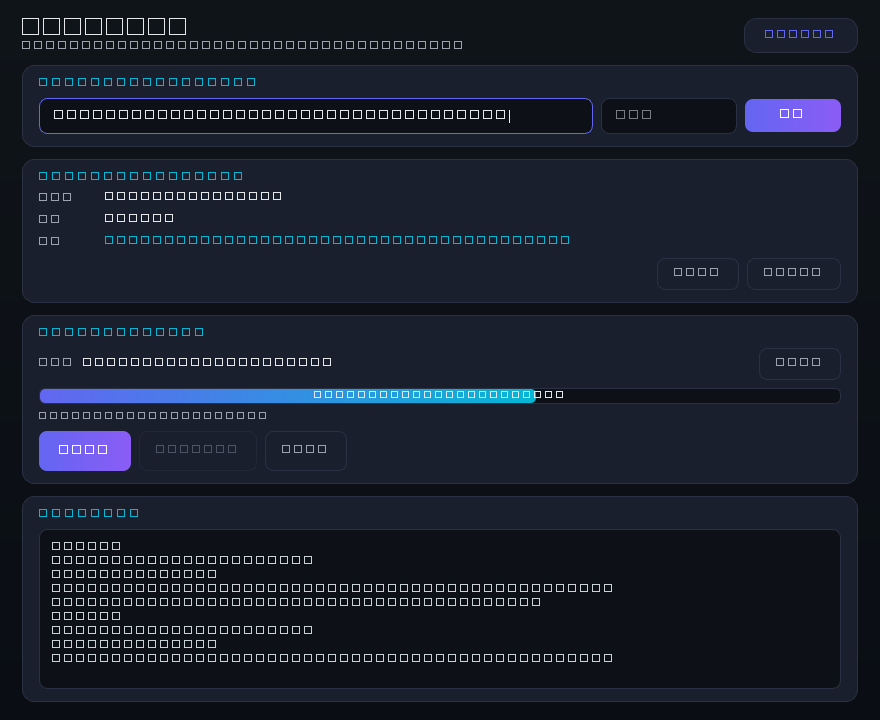
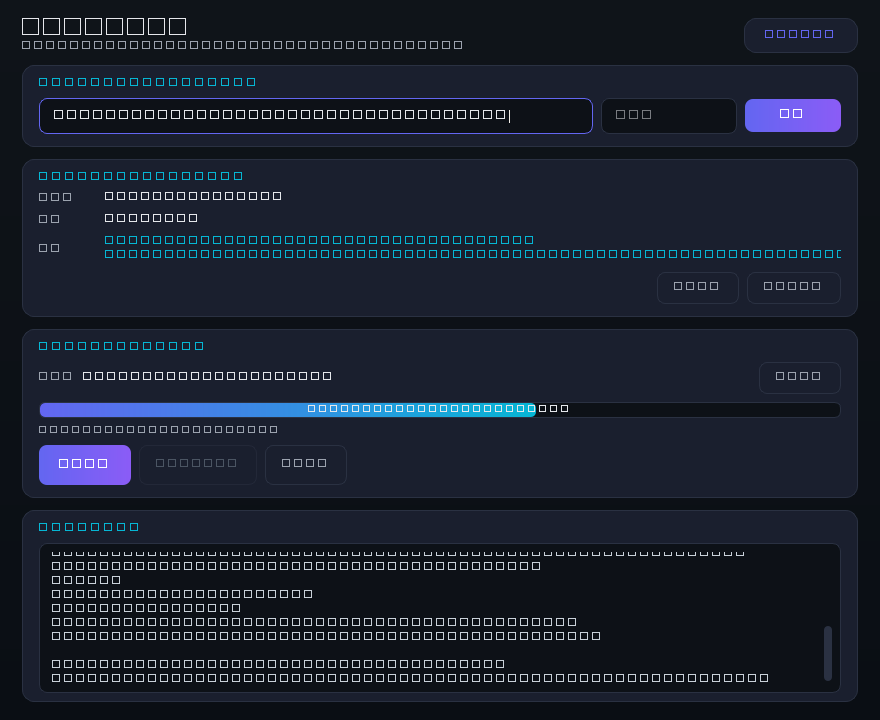
ui: 日志窗口不再被超长直链刷屏，截图改为反映新流程
- 新增 lanzou_gui.shorten()：蓝奏云直链有 300~700 个字符（鉴权串全在里面），
  原来整条打进日志窗口会把别的信息冲掉；现在日志里截断并提示去「直链」栏取完整地址，
  直链栏本身仍保留完整链接（可复制 / 可浏览器打开）
- _make_screenshot.py 改用假数据 + 新流程的日志（浏览器引擎 28 种方法、过 CDN 反爬），
  不再把真实分享链接/文件名截进仓库
- gui_functional.py 加 4 项检查锁住这个行为（46 到 50 项）

diff --git a/tests/_make_screenshot.py b/tests/_make_screenshot.py
@@ -21,32 +21,51 @@ win.resize(880, 720)
 win.show()
 app.processEvents()
 
-# 填一些看起来真实的内容
-win.url_edit.setText('https://wwx.lanzoux.com/ib8xY2zKqwd')
-win.lb_name.setText('示例文件-中文名也可以.zip')
-win.lb_size.setText('48.7 M')
+# 填一些看起来真实的内容（故意用假数据，别把真实分享链接/文件名截进仓库）
+SHARE = 'https://wwx.lanzoux.com/ib8xY2zKqwd'
+DIRECT = ('https://developer4.lanrar.com/file/?UzUFOwo7AzIDCgM7VmNUOFFuVGxR5gay'
[1 lines of base64/hex data omitted]
+NAME = '示例文件-中文名也可以.zip'
+SIZE = '28.73 MB'
+
+win.url_edit.setText(SHARE)
+win.lb_name.setText(NAME)
+win.lb_size.setText(SIZE)
 
 win._on_parsed(LanzouFile(
-    direct_url='https://vip.lanzou.com/file/i9abcDEF123',
-    middle_url='https://vip.lanzou.com/file/i9abcDEF123',
-    name='示例文件-中文名也可以.zip',
-    size='48.7 M',
-    share_url='https://wwx.lanzoux.com/ib8xY2zKqwd',
+    direct_url=DIRECT,
+    middle_url=DIRECT,
+    name=NAME,
+    size=SIZE,
+    share_url=SHARE,
+    engine='browser',
+    cookies={'acw_sc__v2': 'x', 'acw_tc': 'y', 'cdn_sec_tc': 'z', 'down_ip': '1'},
 ))
 
-# 手动补几行日志（不真的发请求）
+# 手动补几行日志（不真的发请求）—— 展示「浏览器引擎 + 过 CDN 反爬」这条新流程
 for line in [
-    '→ 解析: https://wwx.lanzoux.com/ib8xY2zKqwd',
+    '→ 解析: %s' % SHARE,
+    '  [+] 引擎启动中 · 第 1 次尝试...',
+    '  [+] 防检测模式已开启 · 稳定连接中...',
+    '  [+] 成功获取真实地址 · 正在请求服务器签名...',
+    '  【3/28】浏览器静默提取 ...',
+    '  ✔ 浏览器引擎拿到直链',
+    '      ⚠ 直链节点要求过 CDN 反爬，改用浏览器…',
+    '      ✔ 已过 CDN 反爬（acw_sc__v2, acw_tc, cdn_sec_tc, down_ip）',
+    '      ✔ 直链可用 · %s · %s' % (NAME, SIZE),
     '✔ 解析成功',
-    '  文件名: 示例文件-中文名也可以.zip',
-    '  大小  : 48.7 M',
-    '  直链  : https://vip.lanzou.com/file/i9abcDEF123',
+    '  文件名: %s' % NAME,
+    '  大小  : %s' % SIZE,
+    '  直链  : %s' % G.shorten(DIRECT),
+    '',
+    '→ 开始下载到: C:\\Users\\%USERNAME%\\Downloads',
+    '  已带上 CDN 反爬 cookie（acw_sc__v2, acw_tc, cdn_sec_tc, down_ip）',
 ]:
     win._on_log(line)
 
 win.progress.setValue(62)
-win.progress.setFormat('62%   30.2 MB / 48.7 MB')
-win.speed_label.setText('已下载 30.2 MB / 48.7 MB')
+win.progress.setFormat('62%%   17.8 MB / %s' % SIZE)
+win.speed_label.setText('已下载 17.8 MB / %s' % SIZE)
 win._chip('● 下载中…', G.C_ACCENT)
 app.processEvents()
 

diff --git a/lanzou_gui.py b/lanzou_gui.py
@@ -169,6 +169,19 @@ def default_download_dir() -> str:
     return home
 
 
+def shorten(url: str, keep: int = 58) -> str:
+    """
+    日志里用的短链接：蓝奏云的直链有 300~700 个字符（鉴权串全在里面），
+    整条打进日志窗口会把其他信息冲掉 —— 完整直链在「直链」那一栏里，
+    可以复制也可以点「浏览器打开」。
+    Shorten a URL for the log pane; the full link lives in its own row.
+    """
+    url = (url or '').strip()
+    if len(url) <= keep:
+        return url
+    return url[:keep] + '…（共 %d 字符，完整直链见上方「直链」栏）' % len(url)
+
+
 # ===========================================================================
 #  主窗口 / Main window
 # ===========================================================================
@@ -518,7 +531,7 @@ class LanzouGui(QMainWindow):
             self.log('  文件名: %s' % f.name)
         if f.size:
             self.log('  大小  : %s' % f.size)
-        self.log('  直链  : %s' % f.direct_url)
+        self.log('  直链  : %s' % shorten(f.direct_url))
 
     def _on_parse_error(self, kind, msg):
         self.btn_download.setEnabled(False)

diff --git a/tests/gui_functional.py b/tests/gui_functional.py
@@ -157,6 +157,18 @@ def main():
     check('下载按钮已启用', win.btn_download.isEnabled())
     check('状态标签为解析成功', '解析成功' in win.chip.text(), win.chip.text())
 
+    # 超长直链不能把日志窗口刷屏（蓝奏云直链有 300~700 字符）
+    long_url = 'https://developer4.lanrar.com/file/?' + 'A' * 600
+    long_file = LanzouFile(direct_url=long_url, name='很长的直链.bin', size='28.73 MB')
+    win.log_view.clear()
+    win._on_parsed(long_file)
+    app.processEvents()
+    log_text = win.log_view.toPlainText()
+    check('直链栏保留完整直链', win.lb_url.text() == long_url)
+    check('日志里的直链被截断', long_url not in log_text)
+    check('日志提示去直链栏看完整地址', '完整直链见上方' in log_text)
+    check('短链接原样显示', G.shorten('https://a.b/c') == 'https://a.b/c')
+
     # ---- 5. 下载：进度回调 + 完成 ----
     print('\n[5] 下载流程（本地假 CDN）')
     httpd, port = start_fake_cdn()
